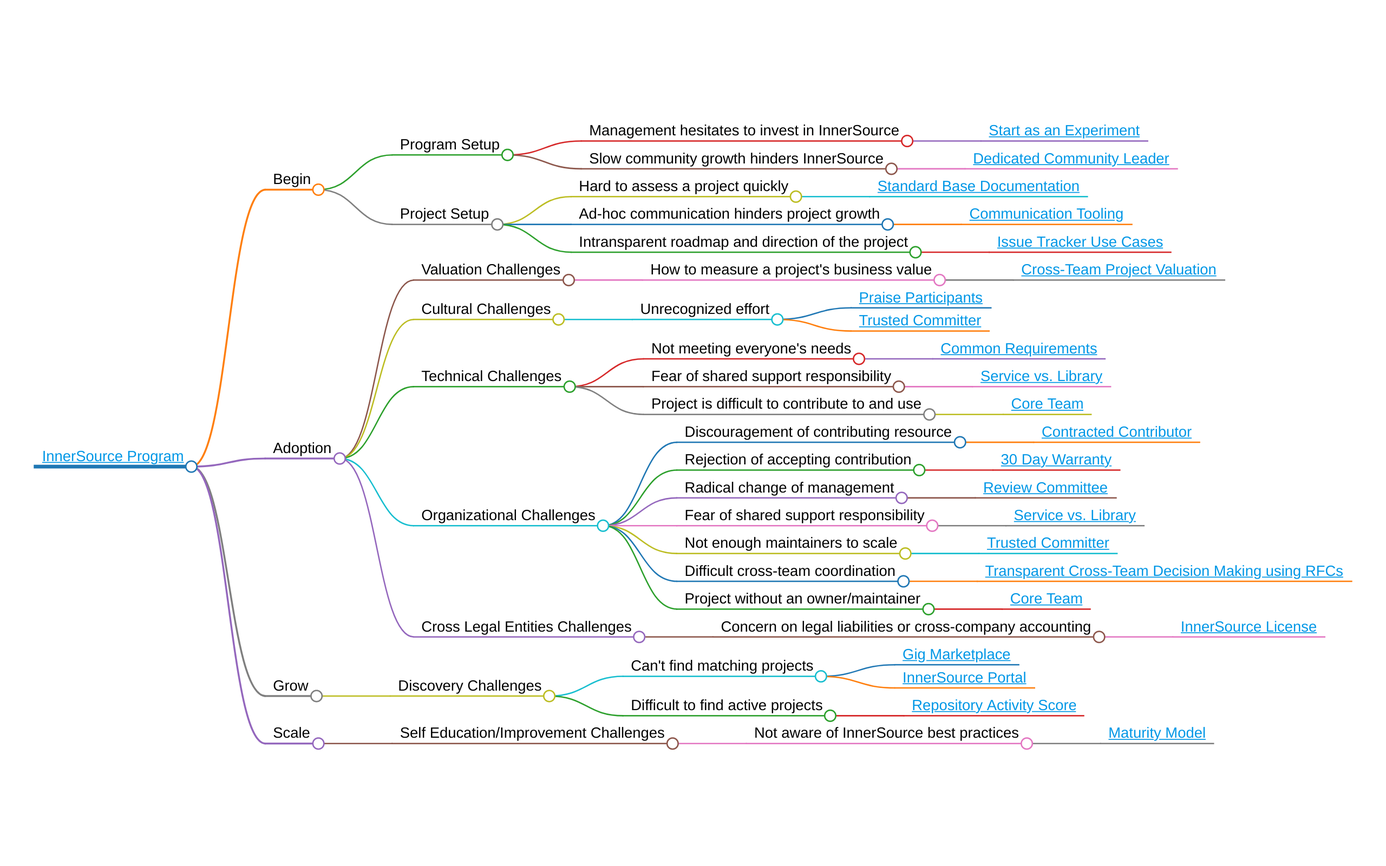
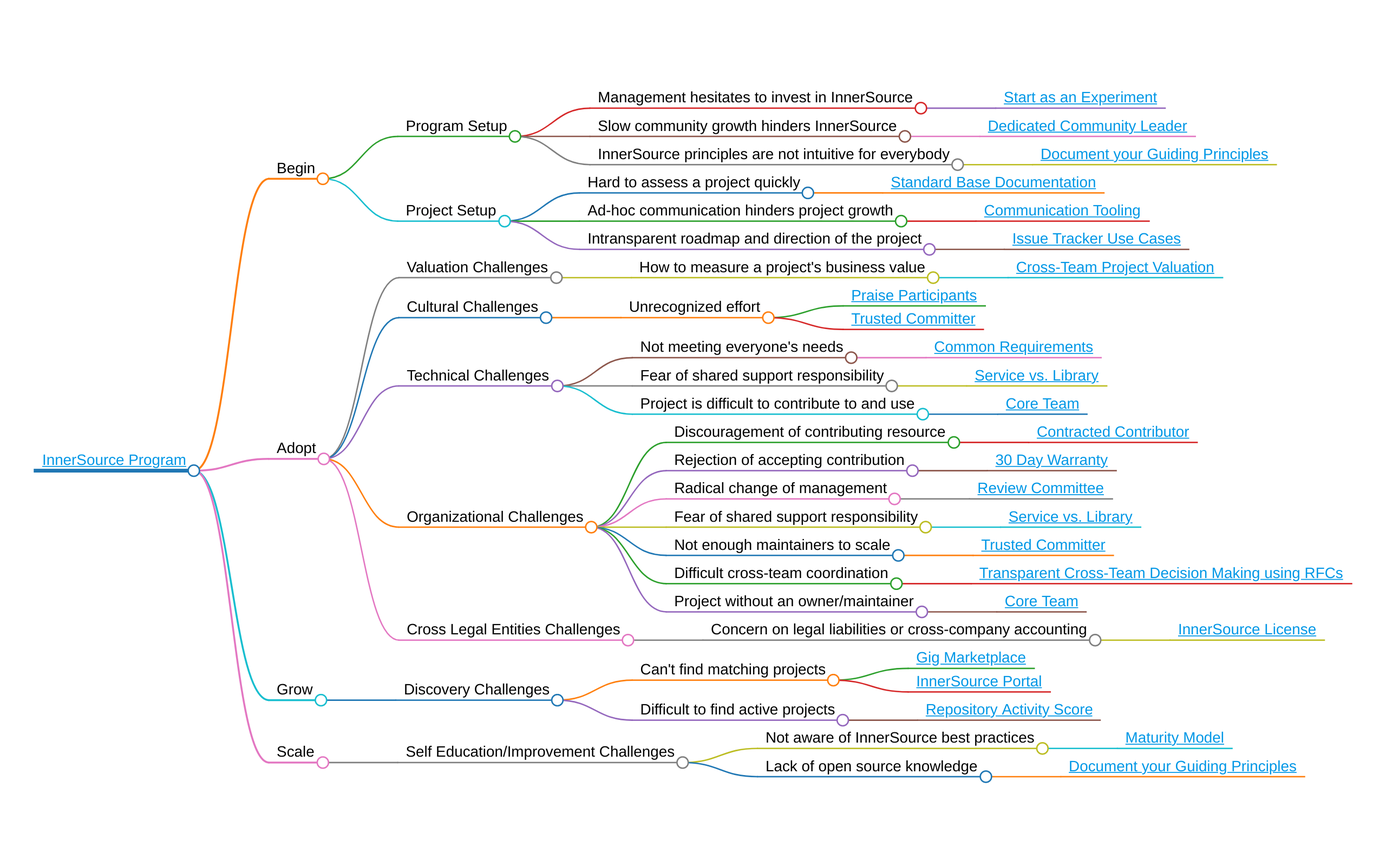
Level up to 2: Explicit InnerSource Principles (#374)
With the latest updates in #373, pattern 'Explicit InnerSource Principles' fulfills all criteria for level 2 (Structured).

These were the remaining steps to move it to level 2.
(documenting these here to make it easier in the future)

* Moving pattern to the correct place in the README.
* Set status Structured.
* Fix formatting of list that otherwise would break in the book.
* Changing markdown formatting to 'one sentence per line' where possible (easier reviews in the future)
* Renaming the pattern based on discussions in PR and Slack
* Adding new pattern to the mindmap

diff --git a/pattern-categorization/innersource-program-mind-map.html b/pattern-categorization/innersource-program-mind-map.html
@@ -25,6 +25,6 @@
           Markmap
         } = getMarkmap();
         window.mm = Markmap.create('svg#mindmap', getOptions == null ? void 0 : getOptions(), data);
-      })(() => window.markmap,null,{"t":"heading","d":1,"p":{"lines":[0,1]},"v":"<a href=\"https://patterns.innersourcecommons.org/toc\">InnerSource Program</a>","c":[{"t":"heading","d":2,"p":{"lines":[2,3]},"v":"Begin","c":[{"t":"heading","d":3,"p":{"lines":[4,5]},"v":"Program Setup","c":[{"t":"heading","d":4,"p":{"lines":[6,7]},"v":"Management hesitates to invest in InnerSource","c":[{"t":"heading","d":5,"p":{"lines":[8,9]},"v":"<a href=\"https://patterns.innersourcecommons.org/p/start-as-experiment\">Start as an Experiment</a>"}]},{"t":"heading","d":4,"p":{"lines":[10,11]},"v":"Slow community growth hinders InnerSource","c":[{"t":"heading","d":5,"p":{"lines":[12,13]},"v":"<a href=\"https://patterns.innersourcecommons.org/p/dedicated-community-leader\">Dedicated Community Leader</a>"}]}]},{"t":"heading","d":3,"p":{"lines":[14,15]},"v":"Project Setup","c":[{"t":"heading","d":4,"p":{"lines":[16,17]},"v":"Hard to assess a project quickly","c":[{"t":"heading","d":5,"p":{"lines":[18,19]},"v":"<a href=\"https://patterns.innersourcecommons.org/p/base-documentation\">Standard Base Documentation</a>"}]},{"t":"heading","d":4,"p":{"lines":[20,21]},"v":"Ad-hoc communication hinders project growth","c":[{"t":"heading","d":5,"p":{"lines":[22,23]},"v":"<a href=\"https://patterns.innersourcecommons.org/p/communication-tooling\">Communication Tooling</a>"}]},{"t":"heading","d":4,"p":{"lines":[24,25]},"v":"Intransparent roadmap and direction of the project","c":[{"t":"heading","d":5,"p":{"lines":[26,27]},"v":"<a href=\"https://patterns.innersourcecommons.org/p/issue-tracker\">Issue Tracker Use Cases</a>"}]}]}]},{"t":"heading","d":2,"p":{"lines":[28,29]},"v":"Adoption","c":[{"t":"heading","d":3,"p":{"lines":[30,31]},"v":"Valuation Challenges","c":[{"t":"heading","d":4,"p":{"lines":[32,33]},"v":"How to measure a project's business value","c":[{"t":"heading","d":5,"p":{"lines":[34,35]},"v":"<a href=\"https://patterns.innersourcecommons.org/p/crossteam-project-valuation\">Cross-Team Project Valuation</a>"}]}]},{"t":"heading","d":3,"p":{"lines":[36,37]},"v":"Cultural Challenges","c":[{"t":"heading","d":4,"p":{"lines":[38,39]},"v":"Unrecognized effort","c":[{"t":"heading","d":5,"p":{"lines":[40,41]},"v":"<a href=\"https://patterns.innersourcecommons.org/p/praise-participants\">Praise Participants</a>"},{"t":"heading","d":5,"p":{"lines":[42,43]},"v":"<a href=\"https://patterns.innersourcecommons.org/p/trusted-committer\">Trusted Committer</a>"}]}]},{"t":"heading","d":3,"p":{"lines":[44,45]},"v":"Technical Challenges","c":[{"t":"heading","d":4,"p":{"lines":[46,47]},"v":"Not meeting everyone's needs","c":[{"t":"heading","d":5,"p":{"lines":[48,49]},"v":"<a href=\"https://patterns.innersourcecommons.org/p/common-requirements\">Common Requirements</a>"}]},{"t":"heading","d":4,"p":{"lines":[50,51]},"v":"Fear of shared support responsibility","c":[{"t":"heading","d":5,"p":{"lines":[52,53]},"v":"<a href=\"https://patterns.innersourcecommons.org/p/service-vs-library\">Service vs. Library</a>"}]},{"t":"heading","d":4,"p":{"lines":[54,55]},"v":"Project is difficult to contribute to and use","c":[{"t":"heading","d":5,"p":{"lines":[56,57]},"v":"<a href=\"https://patterns.innersourcecommons.org/p/core-team\">Core Team</a>"}]}]},{"t":"heading","d":3,"p":{"lines":[58,59]},"v":"Organizational Challenges","c":[{"t":"heading","d":4,"p":{"lines":[60,61]},"v":"Discouragement of contributing resource","c":[{"t":"heading","d":5,"p":{"lines":[62,63]},"v":"<a href=\"https://patterns.innersourcecommons.org/p/contracted-contributor\">Contracted Contributor</a>"}]},{"t":"heading","d":4,"p":{"lines":[64,65]},"v":"Rejection of accepting contribution","c":[{"t":"heading","d":5,"p":{"lines":[66,67]},"v":"<a href=\"https://patterns.innersourcecommons.org/p/30-day-warranty\">30 Day Warranty</a>"}]},{"t":"heading","d":4,"p":{"lines":[68,69]},"v":"Radical change of management","c":[{"t":"heading","d":5,"p":{"lines":[70,71]},"v":"<a href=\"https://patterns.innersourcecommons.org/p/review-committee\">Review Committee</a>"}]},{"t":"heading","d":4,"p":{"lines":[72,73]},"v":"Fear of shared support responsibility","c":[{"t":"heading","d":5,"p":{"lines":[74,75]},"v":"<a href=\"https://patterns.innersourcecommons.org/p/service-vs-library\">Service vs. Library</a>"}]},{"t":"heading","d":4,"p":{"lines":[76,77]},"v":"Not enough maintainers to scale","c":[{"t":"heading","d":5,"p":{"lines":[78,79]},"v":"<a href=\"https://patterns.innersourcecommons.org/p/trusted-committer\">Trusted Committer</a>"}]},{"t":"heading","d":4,"p":{"lines":[80,81]},"v":"Difficult cross-team coordination","c":[{"t":"heading","d":5,"p":{"lines":[82,83]},"v":"<a href=\"https://patterns.innersourcecommons.org/p/transparent-cross-team-decision-making-using-rfcs\">Transparent Cross-Team Decision Making using RFCs</a>"}]},{"t":"heading","d":4,"p":{"lines":[84,85]},"v":"Project without an owner/maintainer","c":[{"t":"heading","d":5,"p":{"lines":[86,87]},"v":"<a href=\"https://patterns.innersourcecommons.org/p/core-team\">Core Team</a>"}]}]},{"t":"heading","d":3,"p":{"lines":[88,89]},"v":"Cross Legal Entities Challenges","c":[{"t":"heading","d":4,"p":{"lines":[90,91]},"v":"Concern on legal liabilities or cross-company accounting","c":[{"t":"heading","d":5,"p":{"lines":[92,93]},"v":"<a href=\"https://patterns.innersourcecommons.org/p/innersource-license\">InnerSource License</a>"}]}]}]},{"t":"heading","d":2,"p":{"lines":[94,95]},"v":"Grow","c":[{"t":"heading","d":3,"p":{"lines":[96,97]},"v":"Discovery Challenges","c":[{"t":"heading","d":4,"p":{"lines":[98,99]},"v":"Can't find matching projects","c":[{"t":"heading","d":5,"p":{"lines":[100,101]},"v":"<a href=\"https://patterns.innersourcecommons.org/p/gig-marketplace\">Gig Marketplace</a>"},{"t":"heading","d":5,"p":{"lines":[102,103]},"v":"<a href=\"https://patterns.innersourcecommons.org/p/innersource-portal\">InnerSource Portal</a>"}]},{"t":"heading","d":4,"p":{"lines":[104,105]},"v":"Difficult to find active projects","c":[{"t":"heading","d":5,"p":{"lines":[106,107]},"v":"<a href=\"https://patterns.innersourcecommons.org/p/repository-activity-score\">Repository Activity Score</a>"}]}]}]},{"t":"heading","d":2,"p":{"lines":[108,109]},"v":"Scale","c":[{"t":"heading","d":3,"p":{"lines":[110,111]},"v":"Self Education/Improvement Challenges","c":[{"t":"heading","d":4,"p":{"lines":[112,113]},"v":"Not aware of InnerSource best practices","c":[{"t":"heading","d":5,"p":{"lines":[114,115]},"v":"<a href=\"https://patterns.innersourcecommons.org/p/maturity-model\">Maturity Model</a>"}]}]}]}]})</script>
+      })(() => window.markmap,null,{"t":"heading","d":1,"p":{"lines":[0,1]},"v":"<a href=\"https://patterns.innersourcecommons.org/toc\">InnerSource Program</a>","c":[{"t":"heading","d":2,"p":{"lines":[2,3]},"v":"Begin","c":[{"t":"heading","d":3,"p":{"lines":[4,5]},"v":"Program Setup","c":[{"t":"heading","d":4,"p":{"lines":[6,7]},"v":"Management hesitates to invest in InnerSource","c":[{"t":"heading","d":5,"p":{"lines":[8,9]},"v":"<a href=\"https://patterns.innersourcecommons.org/p/start-as-experiment\">Start as an Experiment</a>"}]},{"t":"heading","d":4,"p":{"lines":[10,11]},"v":"Slow community growth hinders InnerSource","c":[{"t":"heading","d":5,"p":{"lines":[12,13]},"v":"<a href=\"https://patterns.innersourcecommons.org/p/dedicated-community-leader\">Dedicated Community Leader</a>"}]},{"t":"heading","d":4,"p":{"lines":[14,15]},"v":"InnerSource principles are not intuitive for everybody","c":[{"t":"heading","d":5,"p":{"lines":[16,17]},"v":"<a href=\"https://patterns.innersourcecommons.org/p/document-your-guiding-principles\">Document your Guiding Principles</a>"}]}]},{"t":"heading","d":3,"p":{"lines":[18,19]},"v":"Project Setup","c":[{"t":"heading","d":4,"p":{"lines":[20,21]},"v":"Hard to assess a project quickly","c":[{"t":"heading","d":5,"p":{"lines":[22,23]},"v":"<a href=\"https://patterns.innersourcecommons.org/p/base-documentation\">Standard Base Documentation</a>"}]},{"t":"heading","d":4,"p":{"lines":[24,25]},"v":"Ad-hoc communication hinders project growth","c":[{"t":"heading","d":5,"p":{"lines":[26,27]},"v":"<a href=\"https://patterns.innersourcecommons.org/p/communication-tooling\">Communication Tooling</a>"}]},{"t":"heading","d":4,"p":{"lines":[28,29]},"v":"Intransparent roadmap and direction of the project","c":[{"t":"heading","d":5,"p":{"lines":[30,31]},"v":"<a href=\"https://patterns.innersourcecommons.org/p/issue-tracker\">Issue Tracker Use Cases</a>"}]}]}]},{"t":"heading","d":2,"p":{"lines":[32,33]},"v":"Adopt","c":[{"t":"heading","d":3,"p":{"lines":[34,35]},"v":"Valuation Challenges","c":[{"t":"heading","d":4,"p":{"lines":[36,37]},"v":"How to measure a project's business value","c":[{"t":"heading","d":5,"p":{"lines":[38,39]},"v":"<a href=\"https://patterns.innersourcecommons.org/p/crossteam-project-valuation\">Cross-Team Project Valuation</a>"}]}]},{"t":"heading","d":3,"p":{"lines":[40,41]},"v":"Cultural Challenges","c":[{"t":"heading","d":4,"p":{"lines":[42,43]},"v":"Unrecognized effort","c":[{"t":"heading","d":5,"p":{"lines":[44,45]},"v":"<a href=\"https://patterns.innersourcecommons.org/p/praise-participants\">Praise Participants</a>"},{"t":"heading","d":5,"p":{"lines":[46,47]},"v":"<a href=\"https://patterns.innersourcecommons.org/p/trusted-committer\">Trusted Committer</a>"}]}]},{"t":"heading","d":3,"p":{"lines":[48,49]},"v":"Technical Challenges","c":[{"t":"heading","d":4,"p":{"lines":[50,51]},"v":"Not meeting everyone's needs","c":[{"t":"heading","d":5,"p":{"lines":[52,53]},"v":"<a href=\"https://patterns.innersourcecommons.org/p/common-requirements\">Common Requirements</a>"}]},{"t":"heading","d":4,"p":{"lines":[54,55]},"v":"Fear of shared support responsibility","c":[{"t":"heading","d":5,"p":{"lines":[56,57]},"v":"<a href=\"https://patterns.innersourcecommons.org/p/service-vs-library\">Service vs. Library</a>"}]},{"t":"heading","d":4,"p":{"lines":[58,59]},"v":"Project is difficult to contribute to and use","c":[{"t":"heading","d":5,"p":{"lines":[60,61]},"v":"<a href=\"https://patterns.innersourcecommons.org/p/core-team\">Core Team</a>"}]}]},{"t":"heading","d":3,"p":{"lines":[62,63]},"v":"Organizational Challenges","c":[{"t":"heading","d":4,"p":{"lines":[64,65]},"v":"Discouragement of contributing resource","c":[{"t":"heading","d":5,"p":{"lines":[66,67]},"v":"<a href=\"https://patterns.innersourcecommons.org/p/contracted-contributor\">Contracted Contributor</a>"}]},{"t":"heading","d":4,"p":{"lines":[68,69]},"v":"Rejection of accepting contribution","c":[{"t":"heading","d":5,"p":{"lines":[70,71]},"v":"<a href=\"https://patterns.innersourcecommons.org/p/30-day-warranty\">30 Day Warranty</a>"}]},{"t":"heading","d":4,"p":{"lines":[72,73]},"v":"Radical change of management","c":[{"t":"heading","d":5,"p":{"lines":[74,75]},"v":"<a href=\"https://patterns.innersourcecommons.org/p/review-committee\">Review Committee</a>"}]},{"t":"heading","d":4,"p":{"lines":[76,77]},"v":"Fear of shared support responsibility","c":[{"t":"heading","d":5,"p":{"lines":[78,79]},"v":"<a href=\"https://patterns.innersourcecommons.org/p/service-vs-library\">Service vs. Library</a>"}]},{"t":"heading","d":4,"p":{"lines":[80,81]},"v":"Not enough maintainers to scale","c":[{"t":"heading","d":5,"p":{"lines":[82,83]},"v":"<a href=\"https://patterns.innersourcecommons.org/p/trusted-committer\">Trusted Committer</a>"}]},{"t":"heading","d":4,"p":{"lines":[84,85]},"v":"Difficult cross-team coordination","c":[{"t":"heading","d":5,"p":{"lines":[86,87]},"v":"<a href=\"https://patterns.innersourcecommons.org/p/transparent-cross-team-decision-making-using-rfcs\">Transparent Cross-Team Decision Making using RFCs</a>"}]},{"t":"heading","d":4,"p":{"lines":[88,89]},"v":"Project without an owner/maintainer","c":[{"t":"heading","d":5,"p":{"lines":[90,91]},"v":"<a href=\"https://patterns.innersourcecommons.org/p/core-team\">Core Team</a>"}]}]},{"t":"heading","d":3,"p":{"lines":[92,93]},"v":"Cross Legal Entities Challenges","c":[{"t":"heading","d":4,"p":{"lines":[94,95]},"v":"Concern on legal liabilities or cross-company accounting","c":[{"t":"heading","d":5,"p":{"lines":[96,97]},"v":"<a href=\"https://patterns.innersourcecommons.org/p/innersource-license\">InnerSource License</a>"}]}]}]},{"t":"heading","d":2,"p":{"lines":[98,99]},"v":"Grow","c":[{"t":"heading","d":3,"p":{"lines":[100,101]},"v":"Discovery Challenges","c":[{"t":"heading","d":4,"p":{"lines":[102,103]},"v":"Can't find matching projects","c":[{"t":"heading","d":5,"p":{"lines":[104,105]},"v":"<a href=\"https://patterns.innersourcecommons.org/p/gig-marketplace\">Gig Marketplace</a>"},{"t":"heading","d":5,"p":{"lines":[106,107]},"v":"<a href=\"https://patterns.innersourcecommons.org/p/innersource-portal\">InnerSource Portal</a>"}]},{"t":"heading","d":4,"p":{"lines":[108,109]},"v":"Difficult to find active projects","c":[{"t":"heading","d":5,"p":{"lines":[110,111]},"v":"<a href=\"https://patterns.innersourcecommons.org/p/repository-activity-score\">Repository Activity Score</a>"}]}]}]},{"t":"heading","d":2,"p":{"lines":[112,113]},"v":"Scale","c":[{"t":"heading","d":3,"p":{"lines":[114,115]},"v":"Self Education/Improvement Challenges","c":[{"t":"heading","d":4,"p":{"lines":[116,117]},"v":"Not aware of InnerSource best practices","c":[{"t":"heading","d":5,"p":{"lines":[118,119]},"v":"<a href=\"https://patterns.innersourcecommons.org/p/maturity-model\">Maturity Model</a>"}]},{"t":"heading","d":4,"p":{"lines":[120,121]},"v":"Lack of open source knowledge","c":[{"t":"heading","d":5,"p":{"lines":[122,123]},"v":"<a href=\"https://patterns.innersourcecommons.org/p/document-your-guiding-principles\">Document your Guiding Principles</a>"}]}]}]}]})</script>
 </body>
 </html>

diff --git a/patterns/2-structured/document-your-guiding-principles.md b/patterns/2-structured/document-your-guiding-principles.md
@@ -1,0 +1,152 @@
+## Title
+
+Document your Guiding Principles
+
+## Patlet
+
+The usual InnerSource explanation of "applying open source best practices inside an organisation" does not work well with people lacking an open source background.
+As a remedy the most important principles of InnerSource get documented and published widely.
+
+## Problem
+
+The organisation is trying to roll out InnerSource at a larger scale.
+The initiative started among open source enthusiasts.
+The goal is now to get buy-in from people that are lacking open source experience.
+For that audience the typical slogan of "applying open source best practices" is no longer sufficient to transport the message of what InnerSource is, which problems it solves and which tools it uses for solving these issues.
+As a result InnerSource adoption in the organisation slows down.
+Teams develop diverging ideas of what the goals of InnerSource is about and how to best implement it leading to confusion when contributors are starting to cross team boundaries.
+
+## Story
+
+Early experiments in an organisation have shown that open source collaboration best practices can be beneficial.
+The next step now is to move the initiative to teams and individuals lacking a deep background in open source.
+
+The goal now is to clearly communicate the goals of the InnerSource initiative
+as well as a clear path towards achieving these goals.
+
+## Context
+
+* InnerSource as a term is circulating among employees.
+* The initiative started among open source enthusiasts.
+
+## Forces
+
+* Teams have trouble communicating exactly what the important aspects of InnerSource are.
+* People lacking open source experience fail to understand what it means to bring open source best practices into the organisation.
+* On a daily basis teams trying to follow InnerSource best practices have a hard time deciding if what they are doing is inline with general InnerSource values.
+
+## Solution
+
+Those driving the InnerSource initiative in the organisation need to help the teams and individuals that are lacking a deep background in open source, and therefore have a less intuitive understanding of InnerSource.
+
+Clarity should be provided around these two areas:
+
+### Why does the organisation want to adopt InnerSource?
+
+In the past InnerSource has proven to be successful to solve several issues commonly found in organisations.
+
+However which organizational challenges does your organization hope to improve upon using InnerSource?
+
+Instead of going for generalizations, try to exactly identify the solutions that match the challenges of your organisation - preferably with those affected by the change you want to see.
+
+Some challenges that others have addressed by following InnerSource best practices:
+
+* Reduce development silos caused by excessive ownership culture.
+* Increase innovation speed by reducing time spent solving similar issues by fostering healthy code reuse.
+* Increase development speed by better cross-team collaboration.
+* Solve project/ team dependencies beyond "wait it out" and "build workarounds", thereby reducing engineering bottlenecks.
+* Increase quality.
+* Increase employee happiness.
+* To increase success of new hires.
+* To build actionable documentation.
+
+### Which InnerSource principles will help to address these challenges?
+
+Once teams understand which problems InnerSource will help them address, the next step is to explain which principles help address these challenges.
+
+Based on basic open source development principles the following guidelines have been proven successful:
+
+(1) Code must be transparently hosted within the organisation
+
+Source code, documentation, data relevant for project development must be available and easy to find for anyone in the organisation.
+
+(2) Contributions over feature requests
+
+All stakeholders of a project act as potential contributors and are being treated and supported as such.
+Contributions remain suggestions instead of requirements.
+Coordination before a contribution helps avoid wasted effort.
+Projects provide contribution guidelines to avoid friction.
+
+(3) Mistakes are opportunities for learning
+
+With work visible across the entire organisation any mistake is visible to everyone.
+As a result a culture must be established in which mistakes are opportunities for learning instead of failure that should be avoided at all cost.
+
+(4) Written over verbal communication
+
+For projects that span multiple teams, potentially on diverging meeting schedules, it needs to be possible to collaborate asynchronously.
+The goal for InnerSource projects is to recruit new contributors.
+For that, potential future contributors need to be able to follow the project progress on a self serve basis with a very low barrier to entry.
+If project relevant communication happens through synchronous communication, arguments discussed need to be made transparent in the written channel - decisions should be finalized only there.
+As a side effect this leads to passive base documentation that is very valuable for any newcomer to the project.
+
+(5) Allow written advise to accumulate in a persistent, searchable archive
+
+All project communication, in particular decisions taken and discussions leading up to those decisions need to be archived.
+It must be possible to reference communication via stable URLs.
+Previous communication needs to be stored in a way that can easily be searched.
+
+Two caveats though:
+
+1. This does not replace structured documentation. It can serve as a starting point to collect structured documentation though.
+2. There are exceptions to the rule of everything being written and accessible to the entire organisation: People related discussions as well as security related discussions are sensitive and should not be held in public.
+
+(6) Reward Trusted Committership
+
+All contributions (e.g. source code, documentation, bug reports, input to discussions, user support, marketing) are welcome and are being rewarded.
+Those showing support for the project are being invited as [Trusted Committers](../2-structured/trusted-committer.md).
+All Trusted Committers of a project are published.
+
+## Resulting Context
+
+* Organisation members understand which challenges they can address by applying InnerSource best practices.
+* Organisation members lacking prior open source experience understand the basic values and principles of InnerSource projects.
+* Organisation members lacking prior open source experience are able to check their daily doing against a set of common established values.
+* The organisation's development practices become more similar to open source projects thus making it easier for organisation members to participate in open source projects.
+
+## Known Instances
+
+### Europace AG
+
+The InnerSource principles listed in the Solution above are mostly based on Europace's experience.
+For more details see [Europace InnerSource Prinzipien](https://tech.europace.de/post/europace-inner-source-prinzipien/) (in German).
+
+### Robert Bosch GmbH
+
+Fostering collaboration, learning and innovation is the main focus of the Bosch InnerSource initiative (BIOS).
+To that end, they applied the following principles:
+
+- **Openness**: We lower the barriers for entry into BIOS communities as much as we can.
+- **Transparency**: We are radically transparent and share our work products, our communication, and our decision making with all associates in the company.
+- **Voluntariness**: The decision to join and contribute to a BIOS community is left to each associate. Associates should work within BIOS because they are intrinsically motivated, not because their manager told them so.
+- **Self-Determination**: BIOS communities are free to choose what to work on, when they work and what tools and processes they use to work.
+- **Meritocracy**: Power is vested in BIOS project members based on their merits, that is, based on the quality and quantity of their contributions.
+
+![BIOS Principles](../../assets/img/bios-principles.png)
+
+The principles _Openness_, _Transparency_ and _Voluntariness_ helped grow diverse communities of intrinsically motivated associates.
+_Meritocracy_ has proven to be an effective motivation for making great contributions.
+_Self-Determination_ allowed the communities to use their limited time for contributions in the most effective and efficient way.
+
+## Status
+
+Structured
+
+## Authors
+
+* Isabel Drost-Fromm
+* Georg Grütter
+
+## Alias
+
+Explicit InnerSource Principles

diff --git a/README.md b/README.md
@@ -50,6 +50,7 @@ The below lists all known patterns. They are grouped into three [maturity levels
 * [Transparent Cross-Team Decision Making using RFCs](patterns/2-structured/transparent-cross-team-decision-making-using-rfcs.md) - *InnerSource projects that want to achieve high participation rates and make the best possible decisions for everybody involved need to find ways to create participatory systems throughout the full software lifecycle. Publishing internal Requests for Comments (RFCs) documents allows for discussions early on in the design process, and increases the chances to build solutions with a high degree of commitment from all involved parties.*
 * [Start as an Experiment](patterns/2-structured/start-as-experiment.md) - *Start your InnerSource initiative as a time limited experiment to make it easier for managers unfamiliar with InnerSource to endorse and support the initiative.*
 * [Core Team](patterns/2-structured/core-team.md) - *Even when an InnerSource project is widely needed, contributions and usage may be hindered because the project is difficult to work with. Establish a core team that is dedicated to take care of the project's fundamental items. Their work enables contributors to add and use the features that provide value to their scenarios.*
+* [Document your Guiding Principles](patterns/2-structured/document-your-guiding-principles.md) - *The usual InnerSource explanation of "applying open source best practices inside an organisation" does not work well with people lacking an open source background. As a remedy the most important principles of InnerSource get documented and published widely.*
 
 ### Maturity Level 1: Initial
 
@@ -70,7 +71,6 @@ The below lists all known patterns. They are grouped into three [maturity levels
 * [Unified Source Code Inventory](patterns/1-initial/source-code-inventory.md) - *In a large organization with different legal entities is often hard to get full visibility into all software assets, in particular all source code. This situation reduces the opportunities to increase business value and keep liability costs, such as software maintenance, under control across the organization as a whole. An organization-level source code inventory addresses these issues while exploiting opportunities to identify and support valuable InnerSource assets.*
 * [Explicit Shared Ownership](patterns/1-initial/explicit-shared-ownership.md) - *A software component that several teams depend on has grown to the point where owners are no longer capable of taking full ownership. There is confusion who to involve for changes. Sharing ownership explicitly and making expected behaviour visible removes ambiguity. Writing a contributions document creates a natural way to evolve ownership.*
 * [Standarized Release Process](patterns/1-initial/release-process.md) - *Teams may be reluctant to use InnerSource projects that they are unfamiliar with when there is no clear release process apparent in the repository. Providing clear release notes and a published artifact (binary, docker image, jar, etc) gives people confidence you are publishing a quality product.*
-* [Explicit InnerSource Principles](patterns/1-initial/explicit-innersource-principles.md) - *The usual InnerSource explanation of "applying open source best practices inside an organisation" does not work well with people lacking an open source background. As a remedy the most important principles of InnerSource get published widely.*
 * [Overcoming the Not-Invented-Here Mindset](/patterns/1-initial/not-invented-here.md) - Perfectly good solutions are being rejected because of "Not Invented Here" (NIH). Engineers and their managers will choose to implement functionality themselves first, even if an alternative exists. A shift towards a culture of "Proudly Found Elsewhere" can help reduce the negative impact of NIH.
 
 <!--

diff --git a/pattern-categorization/innersource-program-mind-map.md b/pattern-categorization/innersource-program-mind-map.md
@@ -12,6 +12,10 @@
 
 ##### [Dedicated Community Leader](https://patterns.innersourcecommons.org/p/dedicated-community-leader)
 
+#### InnerSource principles are not intuitive for everybody
+
+##### [Document your Guiding Principles](https://patterns.innersourcecommons.org/p/document-your-guiding-principles)
+
 ### Project Setup
 
 #### Hard to assess a project quickly
@@ -26,7 +30,7 @@
 
 ##### [Issue Tracker Use Cases](https://patterns.innersourcecommons.org/p/issue-tracker)
 
-## Adoption
+## Adopt
 
 ### Valuation Challenges
 
@@ -113,3 +117,7 @@
 #### Not aware of InnerSource best practices
 
 ##### [Maturity Model](https://patterns.innersourcecommons.org/p/maturity-model)
+
+#### Lack of open source knowledge
+
+##### [Document your Guiding Principles](https://patterns.innersourcecommons.org/p/document-your-guiding-principles)

diff --git a/pattern-categorization/README.md b/pattern-categorization/README.md
@@ -13,7 +13,7 @@ In the mind map you will see patterns categorized from left to right in increasi
 The logic for these levels is (from left to right):
 
 - level 0: the InnerSource program itself (as the root)
-- level 1: phase of an InnerSource Program
+- level 1: phase of an InnerSource Program (begin/adopt/grow/scale)
 - level 2: problem category
 - level 3: specific problem occurring in an InnerSource context
 - level 4: pattern (solution to the problem)
